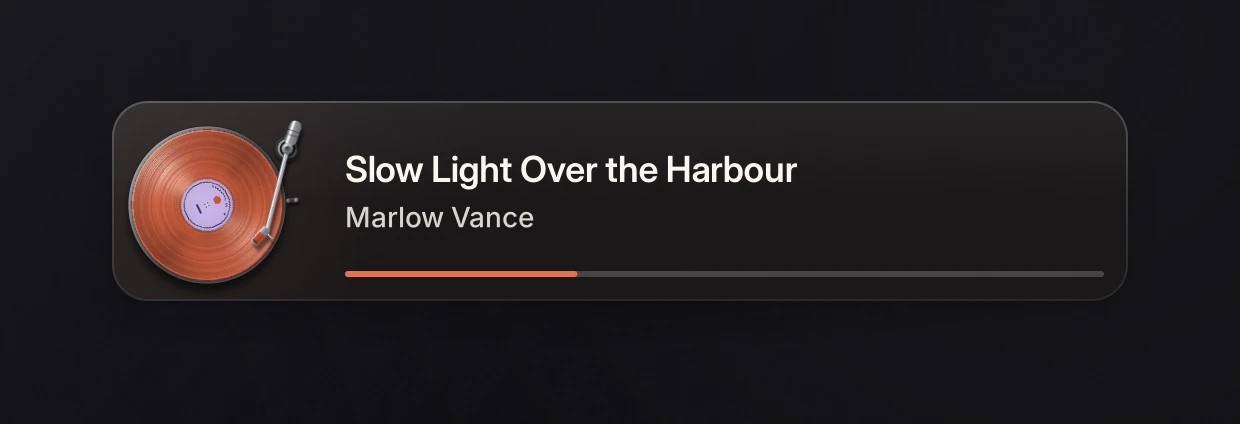
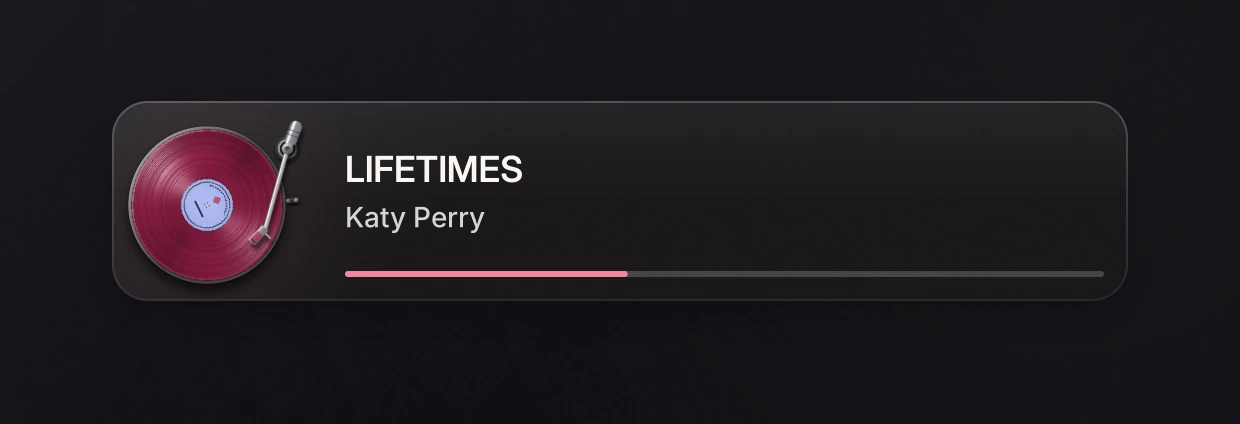
Turntable screenshots with real albums
Renders the four layouts, the palette sheet and the motion clip from real
Apple Music covers and track info (SOS, Wonder, Merry Christmas, Positions,
143), read from the Windows media session by tools/media/read-covers.ps1
and converted by tools/media/covers.py. The covers themselves are not
committed.

Claude-Session: https://claude.ai/code/session_01GPtWgXY5JLzLnGpnXQ3beU

diff --git a/tools/media/covers.py b/tools/media/covers.py
@@ -1,0 +1,45 @@
+#!/usr/bin/env python3
+# SPDX-License-Identifier: GPL-2.0-or-later
+"""Turns covers saved by read-covers.ps1 into a track manifest for tonearm-render.
+
+    python3 tools/media/covers.py COVERS_DIR OUTDIR
+
+COVERS_DIR holds covers.json and the images it names. OUTDIR gets manifest.tsv
+and one .rgba file per cover, which tonearm-render reads with --tracks. Covers
+are album art from the user's own player and are not kept in the repository.
+"""
+from __future__ import annotations
+
+import json
+import sys
+from pathlib import Path
+
+from PIL import Image
+
+ORDER = ["sos", "wonder", "merry-christmas", "positions", "143"]
+# Approximate track lengths in seconds; the media session file has none.
+DURATION = {"sos": 180, "wonder": 77, "merry-christmas": 272, "positions": 239, "143": 203}
+
+
+def main() -> int:
+    src, out = Path(sys.argv[1]), Path(sys.argv[2])
+    out.mkdir(parents=True, exist_ok=True)
+    entries = json.loads(Path(src / "covers.json").read_text(encoding="utf-8-sig"))
+    by_slug = {Path(e["file"]).stem: e for e in entries}
+    rows = []
+    for slug in ORDER + sorted(set(by_slug) - set(ORDER)):
+        e = by_slug.get(slug)
+        if not e:
+            continue
+        im = Image.open(src / e["file"]).convert("RGBA")
+        if max(im.size) > 1024:
+            im = im.resize((1024, 1024), Image.LANCZOS)
+        (out / f"{slug}.rgba").write_bytes(f"RGBA {im.width} {im.height}\n".encode() + im.tobytes())
+        rows.append("\t".join([f"{slug}.rgba", e["title"], e["artist"], e["album"], str(DURATION.get(slug, 200))]))
+    (out / "manifest.tsv").write_text("\n".join(rows) + "\n", encoding="utf-8")
+    print(f"{len(rows)} tracks -> {out / 'manifest.tsv'}")
+    return 0
+
+
+if __name__ == "__main__":
+    sys.exit(main())
